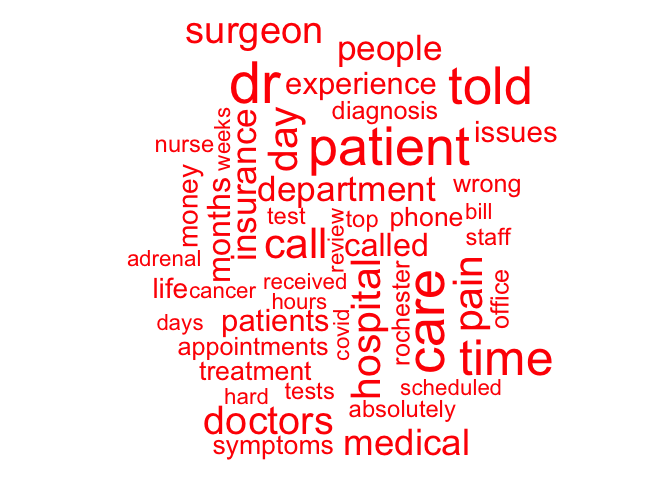
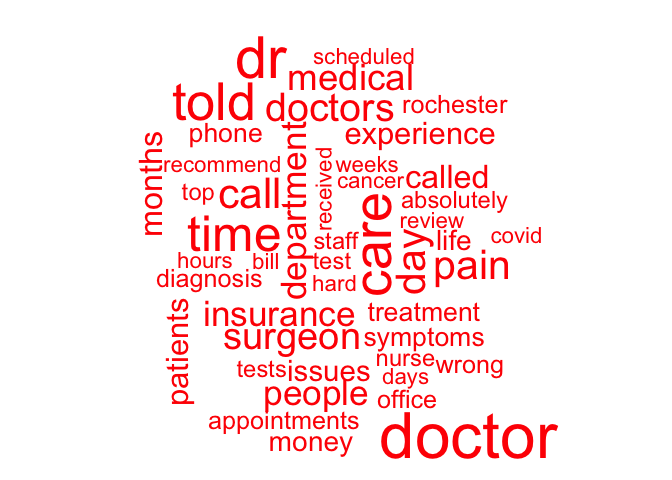
added content to the exhibits

Changed region(s): [[0.1875, 0.0312, 0.8438, 0.9688]]

diff --git a/Mayo-Clinic-Yelp-Review-Text-Analysis.md b/Mayo-Clinic-Yelp-Review-Text-Analysis.md
@@ -717,7 +717,13 @@ wordcloud(
 ```
 
     ## Warning in wordcloud(words = data7$word, freq = data7$n, max.words = 50, :
-    ## medical could not be fit on page. It will not be plotted.
+    ## patient could not be fit on page. It will not be plotted.
+
+    ## Warning in wordcloud(words = data7$word, freq = data7$n, max.words = 50, : care
+    ## could not be fit on page. It will not be plotted.
+
+    ## Warning in wordcloud(words = data7$word, freq = data7$n, max.words = 50, :
+    ## doctor could not be fit on page. It will not be plotted.
 
 ![](Mayo-Clinic-Yelp-Review-Text-Analysis_files/figure-gfm/unnamed-chunk-23-1.png)<!-- -->
 
@@ -776,10 +782,13 @@ wordcloud(
     ## appointment could not be fit on page. It will not be plotted.
 
     ## Warning in wordcloud(words = data_A1T$word, freq = data_A1T$n, max.words = 50, :
+    ## patient could not be fit on page. It will not be plotted.
+
+    ## Warning in wordcloud(words = data_A1T$word, freq = data_A1T$n, max.words = 50, :
     ## surgery could not be fit on page. It will not be plotted.
 
     ## Warning in wordcloud(words = data_A1T$word, freq = data_A1T$n, max.words = 50, :
-    ## doctor could not be fit on page. It will not be plotted.
+    ## hospital could not be fit on page. It will not be plotted.
 
 ![](Mayo-Clinic-Yelp-Review-Text-Analysis_files/figure-gfm/unnamed-chunk-25-1.png)<!-- -->
 
@@ -855,9 +864,16 @@ ggplot(sentiment_data_nrc, aes(x= sentiment2, y=n)) +
 
 ![](Mayo-Clinic-Yelp-Review-Text-Analysis_files/figure-gfm/unnamed-chunk-26-1.png)<!-- -->
 
-Interesting.
+Insights:
 
-Let’s try another dictionary, ‘loughran’
+-   Based on the NRC dictionary, majority of the patients expressed the
+    sentiment “positive” in their reviews, which had the most counts,
+    followed by trust.
+-   The following four sentiments thereafter, as a group, be categorized
+    as ambiguous and negative.
+
+Interesting. What does this tell us? There is a mix big of emotions from
+patients. It’s best to try another dictionary. So, let’s try ‘Loughran’
 
 ``` r
 #use data6 as it is the most funneled data
